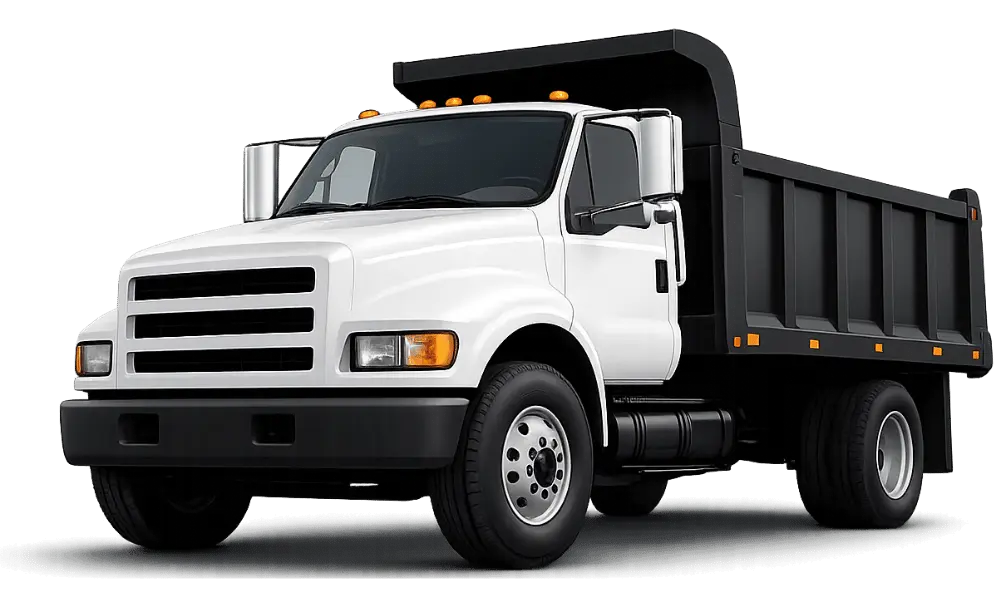
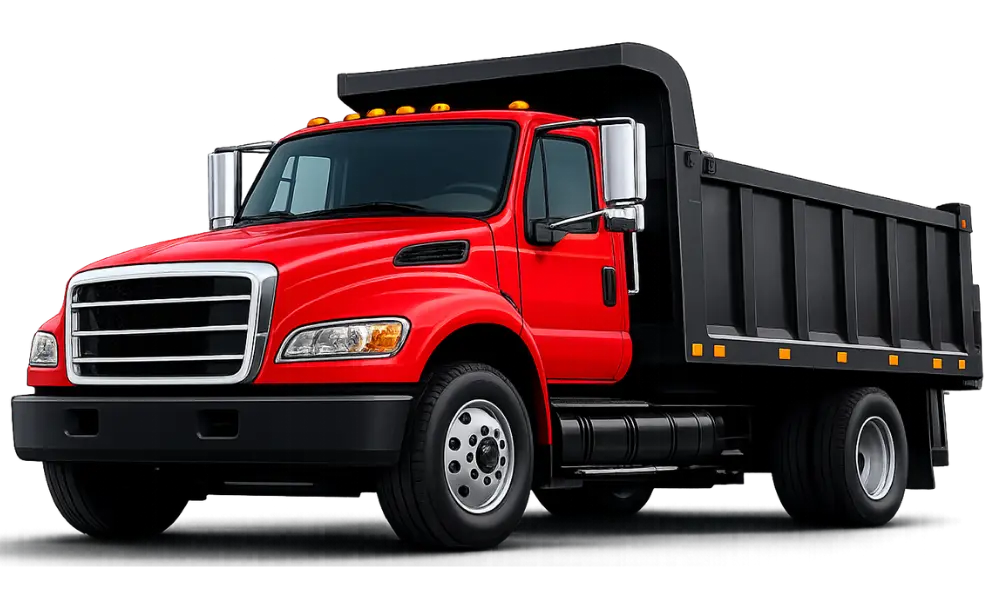
feat: ajustes Home — Actividad reciente, VehicleCard y Resumen semanal
- ActividadReciente reemplaza ActividadCombustible: se quita el gauge de
  combustible (duplicaba el chip de la VehicleCard). Muestra 5 movimientos,
  ordenados por fecha de transacción y luego por hora de registro. La fecha
  ("Hoy/Ayer/…") ahora es la de la transacción, no la de cuándo se cargó.
- VehicleCard: combustible filtrado por placa; foto ~10% más grande solo
  en iOS; chip de combustible ajustado al ancho de "Combustible".
- ResumenSemanal: "Viajes" suma la cantidad de cada flete (x2, x3…).
- Foto de volqueta actualizada.

diff --git a/src/Screens/Home/components/ActividadReciente.tsx b/src/Screens/Home/components/ActividadReciente.tsx
@@ -1,0 +1,299 @@
+// src/Screens/Home/components/ActividadReciente.tsx
+// Panel de últimos movimientos (gastos + ingresos) de la placa activa.
+// (El combustible ya se muestra en la VehicleCard — aquí no se duplica.)
+import React from "react";
+import { View, Text, StyleSheet, Platform, Pressable } from "react-native";
+import { useVehiculoStore } from "../../../store/VehiculoStore";
+import { useGastosStore } from "../../../store/GastosStore";
+import { useIngresosStore } from "../../../store/IngresosStore";
+import ItemIcon, { IconName } from "../../../components/ItemIcon";
+
+const COLORS = {
+  ink: "#111827",
+  muted: "#6B7280",
+  panelBg: "#F4F5F7",
+  link: "#F5A623",
+};
+
+/** tipo (nombre guardado) → ícono + color. Fuente: Gastos.tsx / Ingresos.tsx */
+const CATEGORIA_META: Record<string, { icon: IconName; color: string }> = {
+  // Gastos
+  Combustible: { icon: "fuel", color: "#FFB800" },
+  Peajes: { icon: "toll", color: "#00D9A5" },
+  Comida: { icon: "food", color: "#F97316" },
+  Hospedaje: { icon: "hotel", color: "#6C5CE7" },
+  Taller: { icon: "tool", color: "#74B9FF" },
+  Parqueo: { icon: "parking", color: "#FD79A8" },
+  Reparación: { icon: "repair", color: "#74B9FF" },
+  Llantas: { icon: "tire", color: "#A29BFE" },
+  Lavado: { icon: "wash", color: "#00CEC9" },
+  Aceite: { icon: "oil", color: "#FDCB6E" },
+  // Ingresos
+  Flete: { icon: "freight", color: "#00D9A5" },
+  Mercancía: { icon: "mercancia_box", color: "#FFA500" },
+  Anticipo: { icon: "advance", color: "#74B9FF" },
+  Reembolso: { icon: "refund", color: "#FD79A8" },
+  Cobro: { icon: "factura", color: "#E17055" },
+  Otros: { icon: "otros", color: "#636E72" },
+  Otro: { icon: "otros", color: "#6C5CE7" },
+};
+const metaDe = (tipo?: string | null) =>
+  (tipo && CATEGORIA_META[tipo]) || {
+    icon: "otros" as IconName,
+    color: "#636E72",
+  };
+
+/** "$250.000" — COP con separador de miles */
+function fmtPesos(n: number): string {
+  return (
+    "$" +
+    Math.round(n)
+      .toString()
+      .replace(/\B(?=(\d{3})+(?!\d))/g, ".")
+  );
+}
+
+/** Limpia la descripción (quita tags [TEL:...]) */
+function limpiarDesc(desc?: string | null): string {
+  return (desc ?? "").replace(/\[TEL:[^\]]*\]/g, "").trim();
+}
+
+const MESES = [
+  "ene",
+  "feb",
+  "mar",
+  "abr",
+  "may",
+  "jun",
+  "jul",
+  "ago",
+  "sep",
+  "oct",
+  "nov",
+  "dic",
+];
+
+/**
+ * Etiqueta de fecha basada en la FECHA de la transacción (no en cuándo se
+ * registró). "Hoy 7:45 a. m." / "Ayer" / "10 jul". La hora solo se muestra
+ * cuando la transacción es de hoy (tomada de created_at).
+ */
+function fechaLabel(fecha?: string | null, createdAt?: string | null): string {
+  // Día relativo según la fecha de la transacción; si falta, cae a created_at.
+  const base = fecha && fecha.length >= 10 ? fecha : createdAt;
+  if (!base) return "";
+  const d = new Date(base.length === 10 ? base + "T00:00:00" : base);
+  if (isNaN(d.getTime())) return "";
+
+  const hoy = new Date();
+  const dDia = new Date(d.getFullYear(), d.getMonth(), d.getDate());
+  const hDia = new Date(hoy.getFullYear(), hoy.getMonth(), hoy.getDate());
+  const dias = Math.round((hDia.getTime() - dDia.getTime()) / 86_400_000);
+
+  const dia =
+    dias === 0
+      ? "Hoy"
+      : dias === 1
+        ? "Ayer"
+        : `${d.getDate()} ${MESES[d.getMonth()]}`;
+
+  // Hora solo para movimientos de hoy (de created_at, cuándo se registró)
+  if (dias === 0 && createdAt) {
+    const t = new Date(createdAt);
+    if (!isNaN(t.getTime())) {
+      let h = t.getHours();
+      const ampm = h < 12 ? "a. m." : "p. m.";
+      h = h % 12 || 12;
+      return `${dia} ${h}:${String(t.getMinutes()).padStart(2, "0")} ${ampm}`;
+    }
+  }
+  return dia;
+}
+
+interface Mov {
+  id: string;
+  tipo: string;
+  descripcion: string;
+  monto: number;
+  fecha: string; // fecha de la transacción (para la etiqueta)
+  ts: string; // created_at (para ordenar por lo más reciente agregado)
+}
+
+interface Props {
+  isDark: boolean;
+  onVerTodas?: () => void;
+}
+
+export default function ActividadReciente({ onVerTodas }: Props) {
+  const placa = useVehiculoStore((s) => s.placa);
+  const gastos = useGastosStore((s) => s.gastos);
+  const ingresos = useIngresosStore((s) => s.ingresos);
+
+  const recientes = React.useMemo<Mov[]>(() => {
+    const gs: Mov[] = gastos
+      .filter((g) => g.placa === placa)
+      .map((g) => ({
+        id: `g-${g.id}`,
+        tipo: g.tipo_gasto ?? "Otros",
+        descripcion: limpiarDesc(g.descripcion),
+        monto: g.monto ?? 0,
+        fecha: g.fecha ?? "",
+        ts: g.created_at ?? g.fecha ?? "",
+      }));
+    const is: Mov[] = ingresos
+      .filter((i) => i.placa === placa)
+      .map((i) => ({
+        id: `i-${i.id}`,
+        tipo: i.tipo_ingreso ?? "Otro",
+        descripcion: limpiarDesc(i.descripcion),
+        monto: (i.monto ?? 0) * (i.cantidad ?? 1),
+        fecha: i.fecha ?? "",
+        ts: i.created_at ?? i.fecha ?? "",
+      }));
+    return [...gs, ...is]
+      .sort((a, b) => {
+        // 1º por fecha de la transacción (más reciente arriba)
+        const fa = a.fecha || a.ts.slice(0, 10);
+        const fb = b.fecha || b.ts.slice(0, 10);
+        if (fa !== fb) return fa > fb ? -1 : 1;
+        // 2º desempate: por hora en que se agregó (created_at)
+        return a.ts > b.ts ? -1 : 1;
+      })
+      .slice(0, 5);
+  }, [gastos, ingresos, placa]);
+
+  return (
+    <View style={s.wrap}>
+      <View style={s.panel}>
+        <View style={s.panelHeader}>
+          <Text style={s.panelLabel} numberOfLines={1}>
+            Actividad reciente
+          </Text>
+          <Pressable onPress={onVerTodas} hitSlop={8}>
+            <Text style={s.verTodas}>Ver todas</Text>
+          </Pressable>
+        </View>
+
+        {recientes.length === 0 ? (
+          <Text style={s.vacio}>Sin movimientos aún</Text>
+        ) : (
+          recientes.map((m) => {
+            const meta = metaDe(m.tipo);
+            return (
+              <View key={m.id} style={s.movRow}>
+                <View
+                  style={[s.movIcon, { backgroundColor: meta.color + "22" }]}>
+                  <ItemIcon name={meta.icon} size={22} />
+                </View>
+                <View style={s.movMid}>
+                  <Text style={s.movTipo} numberOfLines={1}>
+                    {m.tipo}
+                  </Text>
+                  {!!m.descripcion && (
+                    <Text style={s.movDesc} numberOfLines={1}>
+                      {m.descripcion}
+                    </Text>
+                  )}
+                </View>
+                <View style={s.movRight}>
+                  <Text style={s.movMonto} numberOfLines={1}>
+                    {fmtPesos(m.monto)}
+                  </Text>
+                  <Text style={s.movFecha} numberOfLines={1}>
+                    {fechaLabel(m.fecha, m.ts)}
+                  </Text>
+                </View>
+              </View>
+            );
+          })
+        )}
+      </View>
+    </View>
+  );
+}
+
+const panelShadow = Platform.select({
+  ios: {
+    shadowColor: "#000",
+    shadowOpacity: 0.05,
+    shadowRadius: 10,
+    shadowOffset: { width: 0, height: 3 },
+  },
+  android: { elevation: 2 },
+});
+
+const s = StyleSheet.create({
+  wrap: {
+    marginBottom: 12,
+  },
+  panel: {
+    backgroundColor: COLORS.panelBg,
+    borderRadius: 20,
+    padding: 14,
+    ...panelShadow,
+  },
+  panelHeader: {
+    flexDirection: "row",
+    alignItems: "center",
+    justifyContent: "space-between",
+    marginBottom: 10,
+  },
+  panelLabel: {
+    fontSize: 12,
+    fontWeight: "600",
+    letterSpacing: 1,
+    color: COLORS.muted,
+    flexShrink: 1,
+  },
+  verTodas: {
+    fontSize: 12,
+    fontWeight: "700",
+    color: COLORS.link,
+  },
+  vacio: {
+    fontSize: 13,
+    color: COLORS.muted,
+    paddingVertical: 8,
+  },
+  movRow: {
+    flexDirection: "row",
+    alignItems: "center",
+    gap: 10,
+    paddingVertical: 7,
+  },
+  movIcon: {
+    width: 38,
+    height: 38,
+    borderRadius: 19,
+    alignItems: "center",
+    justifyContent: "center",
+  },
+  movMid: {
+    flex: 1,
+  },
+  movTipo: {
+    fontSize: 14,
+    fontWeight: "700",
+    color: COLORS.ink,
+    letterSpacing: -0.2,
+  },
+  movDesc: {
+    fontSize: 12,
+    color: COLORS.muted,
+    marginTop: 1,
+  },
+  movRight: {
+    alignItems: "flex-end",
+  },
+  movMonto: {
+    fontSize: 14,
+    fontWeight: "700",
+    color: COLORS.ink,
+    letterSpacing: -0.2,
+  },
+  movFecha: {
+    fontSize: 11,
+    color: COLORS.muted,
+    marginTop: 1,
+  },
+});

diff --git a/src/Screens/Home/components/VehicleCard.tsx b/src/Screens/Home/components/VehicleCard.tsx
@@ -44,7 +44,13 @@ export default function VehicleCard({
   // Ancho real de la fila → foto responsiva que nunca tapa el texto.
   const [rowW, setRowW] = React.useState(0);
   const BLEED = 12; // cuánto sangra la foto por el borde derecho (recortada por overflow)
-  const photoW = rowW ? Math.round(rowW * 0.55) : 162;
+  // En iOS el camión se muestra ~10% más grande (pantalla más ancha)
+  const PHOTO_FRAC = Platform.OS === "ios" ? 0.605 : 0.55;
+  const photoW = rowW
+    ? Math.round(rowW * PHOTO_FRAC)
+    : Platform.OS === "ios"
+      ? 178
+      : 162;
   const photoH = Math.round((photoW * 156) / 260);
   const photoReserve = rowW ? Math.max(96, photoW - BLEED + 6) : 150;
 
@@ -60,6 +66,7 @@ export default function VehicleCard({
     // Gasto combustible por mes → galones del mes actual y ratio vs. mes pico
     const porMes = new Map<string, number>();
     for (const g of gastos) {
+      if (g.placa !== placaActual) continue;
       if (g.tipo_gasto !== "Combustible") continue;
       const mes = (g.fecha ?? g.created_at ?? "").slice(0, 7);
       if (mes) porMes.set(mes, (porMes.get(mes) ?? 0) + (g.monto ?? 0));
@@ -74,7 +81,7 @@ export default function VehicleCard({
     const ratio = gastoPico > 0 ? gastoMes / gastoPico : 0;
 
     return { galones, ratio };
-  }, [gastos, precioGalon]);
+  }, [gastos, precioGalon, placaActual]);
 
   // ── SF Symbol helper ──
   const SFIcon = ({
@@ -321,8 +328,9 @@ const s = StyleSheet.create({
   },
   fuelChip: {
     marginTop: 14,
+    // Se ajusta al contenido (ancho de "Combustible"), con holgura para no cortar
     alignSelf: "flex-start",
-    minWidth: 104,
+    minWidth: 110,
     backgroundColor: "#FFFFFF",
     borderRadius: 12,
     paddingHorizontal: 10,

diff --git a/src/Screens/Home/components/ResumenSemanal.tsx b/src/Screens/Home/components/ResumenSemanal.tsx
@@ -149,6 +149,9 @@ export default function ResumenSemanal({ isDark }: Props) {
 
     const fletes = (arr: typeof is) =>
       arr.filter((i) => i.tipo_ingreso === "Flete");
+    // Viajes = suma de cantidad de los fletes (un flete puede ser x2, x3…)
+    const viajes = (arr: typeof is) =>
+      fletes(arr).reduce((a, i) => a + (i.cantidad ?? 1), 0);
     const clientes = (arr: typeof is) => {
       const set = new Set<string>();
       for (const i of fletes(arr)) {
@@ -180,8 +183,8 @@ export default function ResumenSemanal({ isDark }: Props) {
         label: "Viajes",
         icon: "clipboard",
         iconBg: COLORS.blue,
-        value: String(fletes(iAct).length),
-        delta: countDelta(fletes(iAct).length, fletes(iAnt).length),
+        value: String(viajes(iAct)),
+        delta: countDelta(viajes(iAct), viajes(iAnt)),
       },
       {
         key: "clientes",
@@ -242,7 +245,7 @@ export default function ResumenSemanal({ isDark }: Props) {
 
   return (
     <View style={s.wrap}>
-      <Text style={s.sectionLabel}>RESUMEN SEMANAL</Text>
+      <Text style={s.sectionLabel}>Resumen semanal</Text>
 
       <View style={s.cardsRow}>
         {cards.map((card) => (

diff --git a/src/Screens/Home/Home.tsx b/src/Screens/Home/Home.tsx
@@ -19,7 +19,7 @@ import WidgetClientes from "./widgets/WidgetClientes";
 import ModalVehiculos from "./components/ModalVehiculos";
 import VehicleCard from "./components/VehicleCard";
 import ResumenSemanal from "./components/ResumenSemanal";
-import ActividadCombustible from "./components/ActividadCombustible";
+import ActividadReciente from "./components/ActividadReciente";
 
 const H_PAD = 20;
 
@@ -96,7 +96,7 @@ export default function HomeBaseAdapted({
                     : undefined
                 }>
                 <ResumenSemanal isDark={isDark} />
-                <ActividadCombustible isDark={isDark} />
+                <ActividadReciente isDark={isDark} />
               </View>
             )}
 